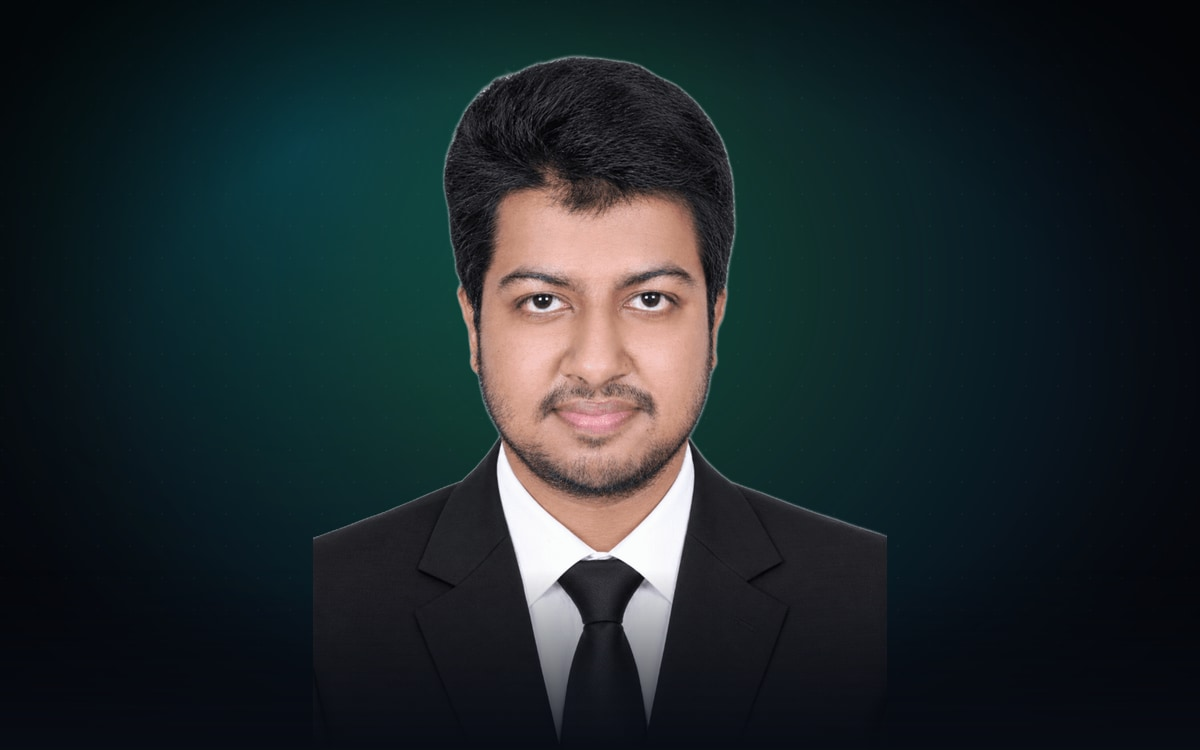
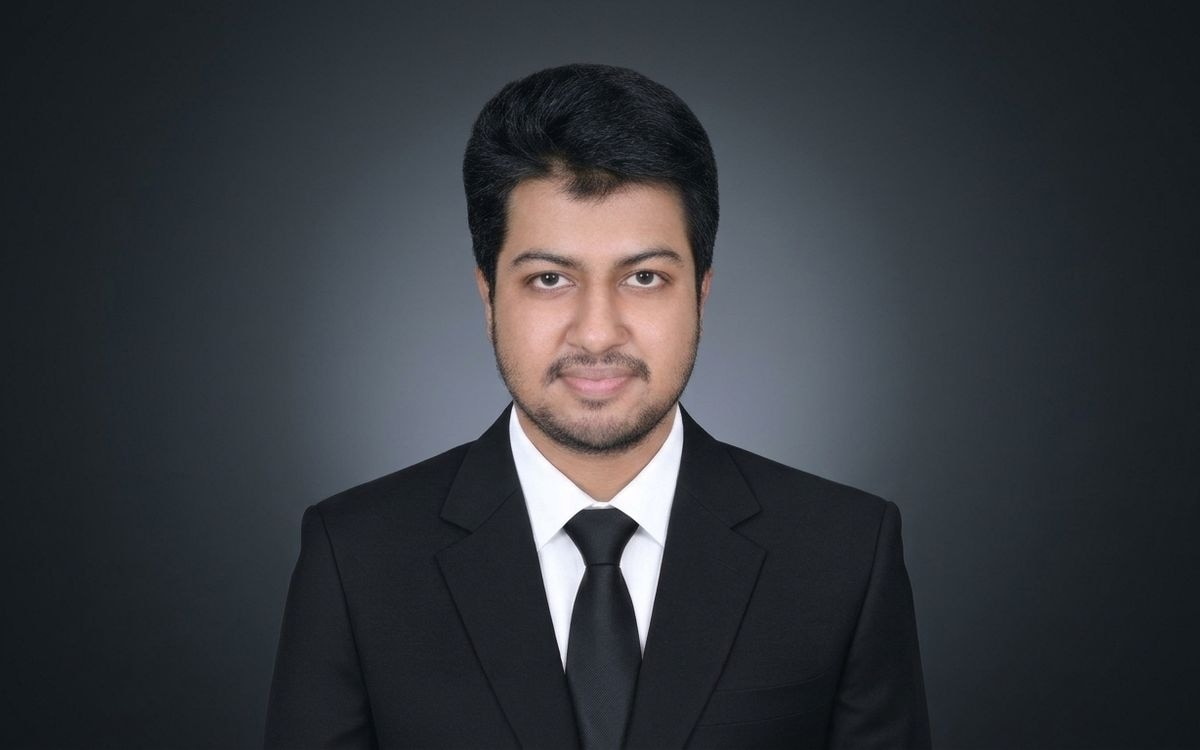
fix(hero): eliminate white cutout fringe, restore clean studio portrait, and modernize hero card UI

diff --git a/src/pages/Components/Hero/HeroSection.jsx b/src/pages/Components/Hero/HeroSection.jsx
@@ -178,22 +178,24 @@ const HeroSection = () => {
                       height='750'
                       fetchpriority='high'
                       decoding='async'
-                      className='w-full h-full object-cover object-center transition-transform duration-500 ease-out group-hover:scale-[1.02]'
+                      className='w-full h-full object-cover object-center transition-transform duration-500 ease-out group-hover:scale-[1.01]'
                     />
                   </picture>
                   <div
                     aria-hidden
                     className='absolute inset-0 pointer-events-none'
                     style={{
-                      background: 'linear-gradient(180deg, transparent 60%, rgba(9,13,21,0.65) 100%)',
+                      background: 'linear-gradient(180deg, transparent 55%, rgba(0,0,0,0.55) 100%)',
                     }}
                   />
-                  <div className='absolute bottom-3.5 left-3.5 right-3.5 flex items-center justify-between'>
-                    <div>
-                      <div className='text-[10.5px] font-mono uppercase tracking-wider text-white/70'>Currently</div>
-                      <div className='text-white text-[13px] font-medium tracking-tight'>{personal.role.split(',')[0]}</div>
+                  <div className='absolute bottom-3 left-3 right-3 flex items-center justify-between gap-2 pointer-events-none'>
+                    <div className='inline-flex items-center gap-2 px-3 py-1.5 rounded-xl bg-black/45 backdrop-blur-md border border-white/10'>
+                      <span className='w-1.5 h-1.5 rounded-full bg-emerald-400' />
+                      <span className='text-white text-[12px] font-medium tracking-tight'>
+                        {personal.role.split(',')[0]}
+                      </span>
                     </div>
-                    <div className='inline-flex items-center gap-1.5 px-2.5 py-1 rounded-full bg-emerald-500/20 backdrop-blur-md border border-emerald-400/30 text-emerald-300 text-[11px] font-mono font-medium shadow-xs'>
+                    <div className='inline-flex items-center gap-1.5 px-3 py-1.5 rounded-xl bg-black/45 backdrop-blur-md border border-white/10 text-emerald-300 text-[11px] font-mono'>
                       <span className='w-1.5 h-1.5 rounded-full bg-emerald-400 animate-pulse' />
                       Open to roles
                     </div>
